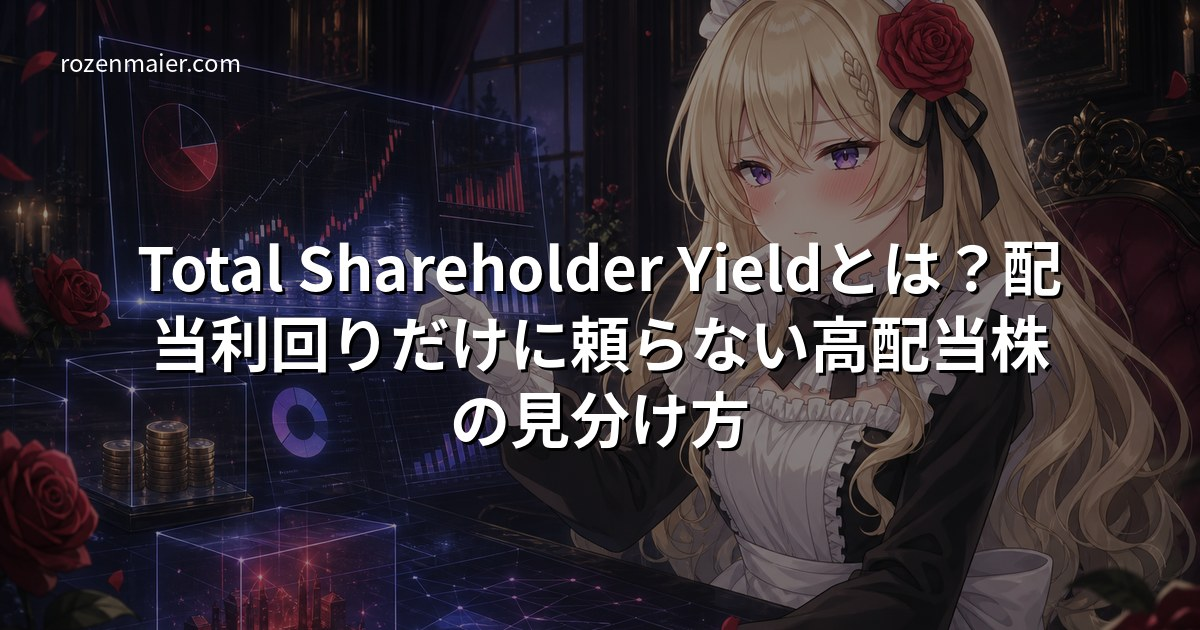
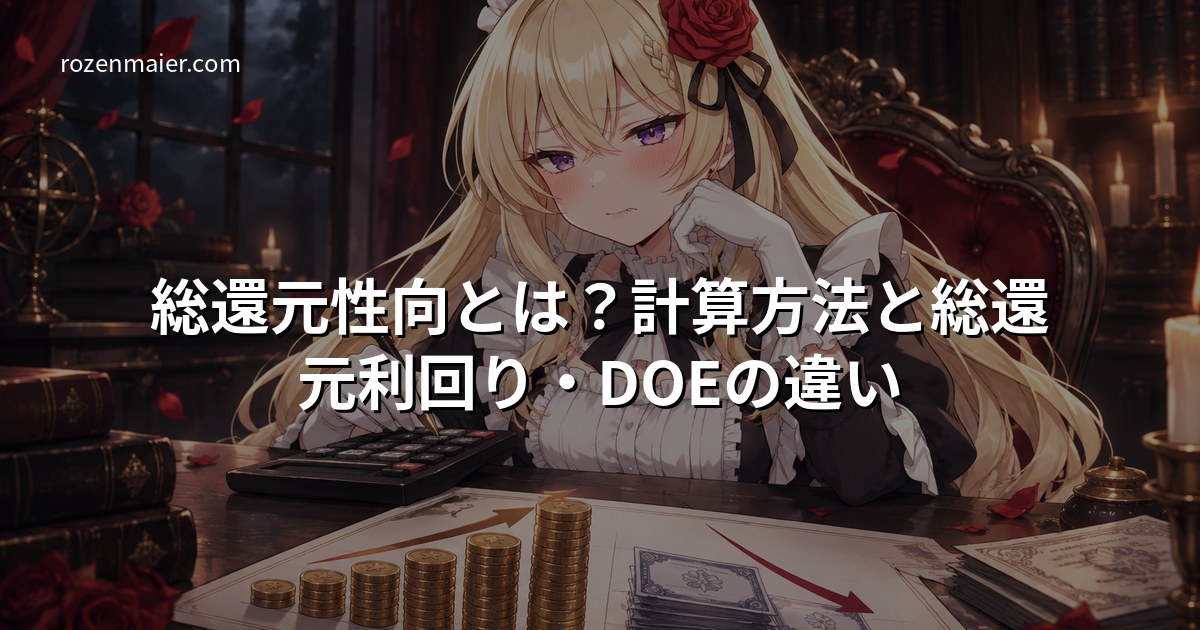
rewrite(seo): 総還元利回り記事を「総還元性向」主軸に再設計
SC90日 54表示・0クリック・平均19.8位（site:除く実クエリ≈10表示・5.7位）、Bing 0表示。
「総還元利回り」「Total Shareholder Yield」はサジェスト需要ほぼ無し、「総還元性向」は
サジェスト100件（DOEとの違い・企業名＋総還元性向）と需要差が大きく、検索意図とズレていた。
- タイトルを総還元性向＋計算方法＋総還元利回り・DOEの違いに変更、サムネ再生成
- 4指標の分子分母比較表、DOEとの違いを新設
- 三菱商事176%/KDDI99.6%/JT85%/Apple94.8%を決算短信・10-Kから計算（旧概算値を破棄）
- 10/29終値の総還元利回り、100%超の落とし穴、Appleの希薄化を株式数で検証
- SYLD経費率0.59%を公式で確認

diff --git a/content/posts/2026-08-15-total-shareholder-yield-dividend-stock-guide.md b/content/posts/2026-08-15-total-shareholder-yield-dividend-stock-guide.md
@@ -1,172 +1,223 @@
 ---
-title: "Total Shareholder Yieldとは？配当利回りだけに頼らない高配当株の見分け方"
+title: "総還元性向とは？計算方法と総還元利回り・DOEの違い"
 date: 2026-08-15
+lastmod: 2026-10-30
 draft: false
 tags: ["用語集", "米国株", "高配当・配当再投資"]
 categories: ["高配当株・配当再投資"]
-description: "Total Shareholder Yield（総株主還元利回り）の計算方法と活用法を解説。配当利回り・自社株買い・新株発行を総合評価し、本当に株主に報いる優良銘柄を見極めるための実践ガイドです。"
+description: "総還元性向＝（配当総額＋自社株買い）÷純利益。三菱商事は176%、KDDIは99.6%、JTは85%、Appleは94.8%（各社の決算短信・10-Kから計算）。配当性向・DOE・総還元利回り（Total Shareholder Yield）との違いと、100%超えの読み方を実例で解説しますわ。"
 featureimage: "https://rozenmaier.com/img/thumbnails/2026-08-15-total-shareholder-yield-dividend-stock-guide.jpg"
 featureimagecaption: "Photo by rozenmaier.com"
 ---
 
-高配当株を選ぶとき、多くの投資家は**配当利回り**だけを見てしまいます。しかし、企業が株主に還元する方法は配当だけではありません。**自社株買い**という強力な還元手段を見落としていませんか？
+「総還元性向」で調べる方が知りたいのは、だいたい次の3つですわね。**どう計算するのか。配当性向やDOEと何が違うのか。100%を超えている会社は大丈夫なのか。**
 
-Total Shareholder Yield（総株主還元利回り）は、配当・自社株買い・新株発行の3要素を統合した指標です。この記事では、TSYの計算方法から日米の代表銘柄、ETFでの活用法まで実践的に解説します。
+先に答えてしまいますわ。
 
-## Total Shareholder Yield（TSY）とは何か
+- **総還元性向 ＝（配当金の総額 ＋ 自社株買いの金額）÷ 当期純利益 × 100**
+- 配当性向は「配当だけ」、総還元性向は「配当＋自社株買い」。分母はどちらも**利益**
+- DOEは分母が**自己資本**、総還元利回り（Total Shareholder Yield）は分母が**時価総額**
+- 100%超えは「その年の利益より多く返した」という意味。**翌年も続くとは限らない**
 
-Total Shareholder Yield（以下TSY）は、企業が株主に対して行う**すべての還元**を利回りとして表した指標です。
+ここからは、三菱商事・KDDI・JT・Appleの決算資料の数字を実際に当てはめて、ひとつずつ確かめていきますの。数字はすべて各社の決算短信と米国の年次報告書（Form 10-K）から拾っていますわ。
 
-**計算式:**
+## 総還元性向とは｜計算式と「配当性向」との違い
+
+総還元性向は、会社が1年間に稼いだ利益のうち、**どれだけを株主に返したか**を表す比率ですわ。
 
 ```
-TSY = 配当利回り + 自社株買い利回り − 新株発行による希薄化率
+総還元性向（%）＝（配当金の総額 ＋ 自己株式の取得額）÷ 親会社株主に帰属する当期純利益 × 100
 ```
 
-それぞれの要素を見ていきましょう。
+配当性向との違いは、分子に**自社株買い**が入るかどうかだけですの。
 
-### 配当利回り
+```
+配当性向（%）＝ 配当金の総額 ÷ 当期純利益 × 100
+```
 
-もっとも馴染みのある指標で、「年間配当金 ÷ 株価」で計算します。高配当株投資の基本ですが、これだけでは企業の還元姿勢の全体像は見えません。
+日本企業は長いあいだ「配当性向30%」を目安にしてきましたけれど、近年は自社株買いを組み合わせて株主還元を厚くする会社が増えましたわ。配当性向だけを見ていると、**自社株買いで大きく返している会社を「還元が少ない会社」と誤読してしまう**。総還元性向が使われるようになったのは、このためですの。
 
-### 自社株買い利回り（Buyback Yield）
+### 自社株買いがなぜ「還元」になるのか
 
-企業が自社の株式を市場から買い戻すことで、発行済み株式数が減少し、1株あたりの利益（EPS）や配当が実質的に増加します。
+会社が市場から自分の株を買い戻して消却すると、発行済株式数が減りますわ。利益が同じなら**1株あたり利益（EPS）が上がり**、配当総額が同じなら**1株あたり配当も上げやすく**なりますの。株を持ち続けている株主から見れば、自分の持ち分が勝手に大きくなるのと同じこと。現金を直接もらわなくても、価値は株主側に移っていますわ。
 
-**計算式:** 自社株買い利回り = 年間自社株買い金額 ÷ 時価総額 × 100
-
-たとえば時価総額1兆円の企業が年間500億円の自社株買いを実施すれば、自社株買い利回りは5%になります。
-
-### 新株発行による希薄化（Dilution）
-
-ストックオプションの行使や増資によって株式数が増えると、既存株主の持ち分が薄まります。TSYではこれを**マイナス要素**として差し引きます。
-
-**計算式:** 希薄化率 = （新規発行株式数 ÷ 期首発行済株式数）× 100
-
-テック企業ではストックベース報酬（SBC）が大きく、見かけの自社株買いが希薄化で相殺されるケースが少なくありません。
+ただし、配当と違って**税金がかからない代わりに、受け取った実感もない**。ここが、自社株買いが見落とされやすい理由ですの。
 
 ![TSYの概念を解説するローゼ](/img/body/2026-08-15-total-shareholder-yield-dividend-stock-guide-1.jpg)
 
-## 具体例で学ぶTSYの計算
+## 配当性向・総還元性向・DOE・総還元利回りの違い
 
-### 米国株の例：Apple（AAPL）
+似た名前の指標が4つあって紛らわしいので、分子と分母で並べてしまいますわ。
 
-Appleは配当利回りこそ0.5%程度と低いものの、巨額の自社株買いを継続しています。
+| 指標 | 分子 | 分母 | 何がわかるか |
+|------|------|------|------------|
+| 配当性向 | 配当総額 | 当期純利益 | 利益のうち配当に回した割合 |
+| **総還元性向** | 配当総額＋自社株買い | 当期純利益 | 利益のうち株主に返した割合 |
+| DOE（株主資本配当率） | 配当総額 | 自己資本 | 利益の振れに左右されにくい配当水準 |
+| **総還元利回り**（Total Shareholder Yield） | 配当総額＋自社株買い（−株式発行） | 時価総額 | 今の株価で買った人が受け取る還元の割合 |
 
-| 項目 | 数値（概算） |
-|------|------------|
-| 配当利回り | 0.5% |
-| 自社株買い利回り | 約3.5% |
-| 希薄化率 | 約0.5% |
-| **TSY** | **約3.5%** |
+覚え方は簡単ですの。**「性向」は会社の目線、「利回り」は投資家の目線**ですわ。
 
-配当利回りだけで判断すれば「低配当株」ですが、TSYで見ると実質3.5%の株主還元を行っている優良企業だとわかります。
+- 総還元性向は「会社が稼いだ利益をどれだけ返したか」。経営方針として目標を掲げる会社が多い
+- 総還元利回りは「自分が今の株価で買ったら、何％分の還元を受ける計算になるか」。配当利回りの拡張版
 
-### 日本株の例：三菱商事（8058）
+### DOEとの違い
 
-日本の総合商社は近年、配当と自社株買いの両輪で株主還元を強化しています。
+DOE（Dividend on Equity）は分母が自己資本なので、**赤字の年でも計算でき、利益が急減しても数字が跳ねにくい**のが特徴ですわ。決算短信の「配当の状況」の表にある「親会社所有者帰属持分配当率」がこれに当たりますの。2026年3月期は三菱商事が4.5%、KDDIが6.2%でしたわ。
 
-| 項目 | 数値（概算） |
-|------|------------|
-| 配当利回り | 約3.0% |
-| 自社株買い利回り | 約2.0% |
-| 希薄化率 | ほぼ0% |
-| **TSY** | **約5.0%** |
+「DOE〇%以上」を配当方針に掲げる会社は、利益が落ちても配当を維持しやすい設計になっています。一方で、DOEは自社株買いを含みません。**配当の安定性を見るならDOE、還元の総量を見るなら総還元性向**、と使い分けますの。
 
-希薄化がほとんどなく、配当と自社株買いの合計で5%近い還元を実現しています。
+## 実例で計算｜三菱商事・KDDI・JT・Appleの総還元性向
 
-### 注意が必要な例：高配当だがTSYが低い銘柄
+では、実際の決算資料から計算してみますわ。配当総額は決算短信の「配当の状況」、自社株買いはキャッシュ・フロー計算書の「自己株式の取得による支出」を使っています。
 
-一方、配当利回りが6%と魅力的に見えても、頻繁に増資を行う企業では希薄化率が2〜3%に達し、実質的なTSYは3〜4%にとどまるケースもあります。REITや一部の金融機関でこのパターンが見られます。
+| 会社（決算期） | 配当総額 | 自社株買い | 当期純利益 | 配当性向 | **総還元性向** |
+|------|------|------|------|------|------|
+| 三菱商事（2026年3月期） | 4,085億円 | 1兆27億円 | 8,005億円 | 52.2% | **176.3%** |
+| KDDI（2026年3月期） | 3,046億円 | 4,000億円 | 7,071億円 | 43.6% | **99.6%** |
+| JT（2025年12月期） | 1株234円 | なし | （調整後）4,886億円 | 85.0% | **85.0%** |
+| Apple（2025年9月期） | 154億ドル | 907億ドル | 1,120億ドル | 13.8% | **94.8%** |
 
-## TSYを活用したETF「SYLD」と「SCHD」の比較
+※三菱商事の自社株買いはキャッシュ・フロー計算書の「自己株式の増減－純額」。JTの配当性向は会社公表の調整後利益ベース。Appleは10-Kのキャッシュ・フロー計算書の配当支払額と自社株買い額から計算。
 
-TSYの概念を活用した代表的なETFを紹介します。
+### 三菱商事：総還元性向176%、利益の1.8倍を返した
 
-### Cambria Shareholder Yield ETF（SYLD）
+三菱商事の2026年3月期は、純利益が9,507億円から8,005億円へ減ったにもかかわらず、**1兆円の自社株買い**（2025年4月4日〜2026年3月24日に3億1,840万株を取得）をやり切りましたわ。配当総額4,085億円と合わせると還元額は約1兆4,112億円。利益を大きく上回ったので、総還元性向は176%になりますの。
 
-[Cambria社](https://www.cambriafunds.com/)が運用するSYLDは、TSYに特化した数少ないETFです。
+配当性向だけ見ると52.2%で「普通の会社」に見えるのに、総還元性向では突出している。**配当性向だけで還元姿勢を判断してはいけない典型例**ですわ。配当そのものの推移と累進配当の中身は[三菱商事の配当分析](/posts/2026-08-29-mitsubishi-corp-8058-dividend-analysis/)で詳しく見ていますの。
 
-- **選定基準:** 配当利回り＋自社株買い利回り＋債務返済利回りの合計が高い銘柄を選定
-- **特徴:** バリュー寄り・中小型株も含む幅広いポートフォリオ
-- **経費率:** 0.59%
+### KDDI：配当4割＋自社株買いで、ほぼ利益の全額
 
-SYLDは配当だけでなく自社株買いと財務改善も評価するため、「見かけの高配当」に騙されにくい設計になっています。
+KDDIは「連結配当性向40%超」を方針にしていて、2026年3月期の配当性向は43.6%。そこに4,000億円の自社株買いが乗っていますわ。合計すると総還元性向は**99.6%**。稼いだ利益をほぼ丸ごと株主に返している計算ですの。100株でいくらもらえるかは[KDDIの配当記事](/posts/2026-10-03-kddi-9433-dividend-84yen-stock-price/)にまとめていますわ。
 
-### SCHDとの違い
+### JT：自社株買いゼロ、総還元性向＝配当性向
 
-[SCHD（シュワブ米国配当株式ETF）](/posts/2026-05-13-high-dividend-etf-schd-vym-hdv-comparison/)は配当の質と成長性を重視しますが、自社株買い利回りを直接的なスクリーニング基準にはしていません。
+JTは「配当性向75%を目安（±5%程度）」とし、自社株買いは「その年の財務状況などを踏まえて実施の是非を検討」という方針ですわ。公式サイトの取得実績は**2019年2〜3月の500億円が最後**。ですから総還元性向は配当性向と同じ85.0%になりますの。
 
-| 比較項目 | SYLD | SCHD |
-|---------|------|------|
-| 主な選定基準 | TSY（配当＋買戻＋債務返済） | 配当の質・成長性・財務健全性 |
-| 銘柄傾向 | バリュー・中小型含む | 大型・高品質配当株 |
-| 経費率 | 0.59% | 0.06% |
-| 向いている人 | 総合還元重視 | 配当成長重視 |
+配当利回りは高いけれど、還元のほぼすべてが配当。**配当で受け取りたい人には向いている一方、総還元で比べると突出してはいない**、というのがJTの立ち位置ですわね。配当272円の妥当性は[JTの株価と配当の検証](/posts/2026-09-19-jt-2914-stock-price-dividend-272yen/)で取り上げましたわ。
 
-どちらが優れているかではなく、**投資目的に応じた使い分け**が重要です。インカム重視ならSCHD、総合還元重視ならSYLDが向いています。
+### Apple：配当性向14%でも、総還元性向は95%
 
-## TSYを自分で計算する3つのステップ
+Appleの配当性向はわずか13.8%。配当だけ見れば「株主還元に消極的な会社」ですわ。ところが2025年9月期の自社株買いは907億ドルで、配当の約6倍。合わせると総還元性向は**94.8%**ですの。米国の大型テック株は、還元の主役が配当ではなく自社株買いだということがよくわかりますわね。
 
-個別銘柄のTSYを自分で調べる方法を紹介します。
+## 総還元利回り（Total Shareholder Yield）の計算方法
 
-### ステップ1：配当利回りを確認
+総還元性向は「会社がどれだけ返したか」でしたわ。では、**今の株価で買う投資家にとって何％なのか**。これを表すのが総還元利回り、英語でいうTotal Shareholder Yield（TSY）ですの。
 
-証券会社のスクリーナーや[Yahoo Finance](https://finance.yahoo.com/)で簡単に確認できます。
+```
+総還元利回り（%）＝（配当総額 ＋ 自社株買い額 − 新株発行額）÷ 時価総額 × 100
+            ≒ 配当利回り ＋ 自社株買い利回り − 希薄化率
+```
 
-### ステップ2：自社株買い利回りを算出
+さきほどの4社に、2026年10月29日の終値を当てはめてみますわ。還元額は直近の通期実績、時価総額は「終値 ×（発行済株式数 − 自己株式数）」で出しています。
 
-企業の決算書（キャッシュフロー計算書）から「自己株式の取得」金額を確認し、時価総額で割ります。日本企業なら有価証券報告書、米国企業なら10-K（Annual Report）の「Financing Activities」セクションに記載されています。
+| 会社 | 10/29終値 | 時価総額 | 配当利回り（実績） | 自社株買い利回り | **総還元利回り** |
+|------|------|------|------|------|------|
+| 三菱商事 | 4,908円 | 約18.0兆円 | 2.24% | 5.58% | **7.85%** |
+| KDDI | 2,778円 | 約10.6兆円 | 2.88% | 3.78% | **6.66%** |
+| JT | 7,401円 | — | 3.16% | 0% | **3.16%** |
+| Apple | 348.9ドル | 約5.16兆ドル | 0.30% | 1.76% | **2.06%** |
 
-### ステップ3：希薄化を差し引く
+配当利回りの順位はJT ＞ KDDI ＞ 三菱商事 ＞ Apple ですけれど、総還元利回りで並べ直すと**三菱商事 ＞ KDDI ＞ JT ＞ Apple**。順位がひっくり返りますの。
 
-期首と期末の発行済株式数を比較します。株式数が増加していれば希薄化が発生しています。特に米国テック企業ではSBC（株式報酬）による希薄化が年1〜3%に達することがあります。
+ただし、この表を「三菱商事がいちばんお得」と読むのは早計ですわ。理由は次の章で。
 
-**簡易チェック:** 発行済株式数が毎年減少している企業は、自社株買いが希薄化を上回っている＝ネットの株主還元がプラスです。Appleや[VIG構成銘柄](/posts/2026-07-17-vig-vs-dgro-dividend-growth-etf-guide-2026/)の多くがこのパターンに該当します。
-
-![自社株買いの落とし穴を検証するローゼ](/img/body/2026-08-15-total-shareholder-yield-dividend-stock-guide-2.jpg)
-
-## TSY活用の注意点と落とし穴
-
-TSYは万能ではありません。以下の点に注意しましょう。
+## 総還元性向100%超えは良いことか｜3つの落とし穴
 
 ### 1. 自社株買いは「約束」ではない
 
-配当は一度始めると減配のハードルが高いですが、自社株買いは業績悪化時に突然中止されることがあります。コロナショック時には多くの企業が自社株買いプログラムを一時停止しました。
+配当は一度上げると下げにくいものですけれど、自社株買いは**その年ごとに決める**ものですわ。
 
-上限額が開示されていても、実際の取得額は毎月の「自己株式の取得状況」で追うのが確実です。[INPEXの配当と1,400億円の自社株買いの進み具合](/posts/2026-09-05-inpex-1605-dividend-yield-total-payout/)では、その追い方を実例で確認しています。
+三菱商事の1兆円は2025年度の施策で、2026年5月の決算短信には2026年度分の新しい取得枠の記載はありませんでしたの。配当は125円への増配予想（10/29終値で利回り2.55%）が出ていますけれど、自社株買いが前年並みに無ければ、**来年の総還元利回りは7.85%から大きく下がる**可能性がありますわ。
 
-### 2. 借金して自社株買いするケース
+KDDIは2027年3月期も3,000億円（上限）の取得枠を決議していますわ。ただしそのうち最大2,500億円は、トヨタ自動車と京セラが売りたい株を引き取る**公開買付け**ですの。市場から継続的に買い上げる自社株買いとは性格が少し違う、という点は押さえておきたいところですわね。それでも3,000億円で計算した利回りは2.84%、配当予想84円の3.02%と合わせて約5.9%ですの。
 
-低金利時代には負債を増やして自社株買いを行う企業もありました。TSYの数値は高くなりますが、財務体質は悪化します。**負債比率（D/Eレシオ）**も併せて確認しましょう。
+上限額が開示されていても、実際の取得額は毎月開示される「自己株式の取得状況に関するお知らせ」で追うのが確実ですわ。
 
-### 3. 株価が割高な時の自社株買いは非効率
+### 2. 借入を増やしながらの還元
 
-PERやPBRが極端に高い水準で自社株買いを行っても、株主にとってのリターンは限定的です。「自社株買い利回りが高い＝良い」とは限らない点に注意が必要です。
+総還元性向が100%を超えるということは、その年の利益だけでは足りず、**手元資金か借入でまかなった**ということですわ。
 
-### 4. 配当利回りトラップとの併用
+三菱商事の2026年3月期のキャッシュ・フロー計算書では、長期借入による調達が1兆3,868億円、返済が4,902億円でしたの。借入の増加がそのまま自社株買いに充てられたとは言い切れませんけれど、還元を厚くした年に借入も増えていた、という事実は財務面から確認しておくべきですわ。**総還元性向を見るときは、有利子負債とD/Eレシオも並べて見る**のが鉄則ですの。
 
-TSYが高くても、[配当利回りトラップ](/posts/2026-08-01-dividend-yield-trap-payout-ratio-fcf-screening-guide/)（株価下落による見かけ上の高利回り）に該当する銘柄は避けるべきです。FCF（フリーキャッシュフロー）に対する配当＋自社株買いの比率が100%を超えていないかチェックしましょう。
+### 3. 株価が高いときの自社株買いは効率が悪い
 
-## まとめ：配当利回りの「その先」を見よう
+同じ1兆円でも、株価が安いときに買えば多くの株を消却でき、高いときに買えば少ししか減らせませんわ。三菱商事の1兆円の平均取得単価は約3,141円で、10月29日の終値4,908円より大幅に安く買えていますの。結果的にはうまい買い物だったわけですけれど、**PERやPBRが極端に高い水準での自社株買いは、総還元性向の数字ほど株主の得にならない**ことは覚えておいてくださいまし。
 
-Total Shareholder Yieldは、配当利回りだけでは見えない企業の株主還元姿勢を可視化する強力な指標です。
+![自社株買いの落とし穴を検証するローゼ](/img/body/2026-08-15-total-shareholder-yield-dividend-stock-guide-2.jpg)
 
-**TSY活用のポイント:**
+## 希薄化を差し引く｜株式数の増減で確かめる
 
-- 配当利回りに自社株買い利回りを加え、希薄化を引く
-- 日本の商社・銀行株は近年TSYが高い傾向
-- 米国テック株は配当が低くてもTSYで見ると高還元な銘柄が多い
-- ETFならSYLDがTSY特化、[SCHDは配当品質重視](/posts/2026-05-13-high-dividend-etf-schd-vym-hdv-comparison/)
-- 自社株買いの持続性・財務健全性も必ず確認する
+総還元利回りでもうひとつ大事なのが、**新株発行による希薄化**ですわ。米国のテック企業は社員への株式報酬（SBC）が大きく、自社株買いで減らした株の一部を、株式報酬で増やしてしまっていますの。
 
-配当利回りだけでなくTSYも活用することで、**本当に株主に報いる優良銘柄**を見極める精度が格段に上がります。ぜひ次のスクリーニングから取り入れてみてください。
+Appleの10-Kから株式数の動きを拾うと、2025年9月期はこうでしたわ。
 
----
+| 項目 | 株式数 |
+|------|------|
+| 期首の発行済株式数 | 151億1,679万株 |
+| 自社株買いで減った株 | −4億167万株 |
+| 株式報酬などで増えた株 | ＋5,815万株 |
+| 期末の発行済株式数 | 147億7,326万株 |
 
-**関連記事:**
-- [SCHD完全ガイド](/posts/2026-05-13-high-dividend-etf-schd-vym-hdv-comparison/)
-- [VIG vs DGRO 配当成長ETF比較](/posts/2026-07-17-vig-vs-dgro-dividend-growth-etf-guide-2026/)
-- [配当利回りトラップの見分け方](/posts/2026-08-01-dividend-yield-trap-payout-ratio-fcf-screening-guide/)
-- [高配当ETF SCHD・VYM・HDV比較](/posts/2026-05-13-high-dividend-etf-schd-vym-hdv-comparison/)
-- [配当成長 vs 高利回り どちらが有利？](/posts/2026-06-27-dividend-growth-vs-high-yield-stocks-comparison/)
+自社株買いで2.66%減らした一方、株式報酬で0.38%増えているので、**差し引きの株式数の減少は2.27%**ですわ。
+
+ここから、総還元利回りの計算方法には2通りあることがわかりますの。
+
+- **金額ベース**：（配当支払額＋自社株買い額）÷ 時価総額 … Appleは2.06%
+- **株式数ベース**：配当利回り＋株式数の純減少率 … Appleは0.30%＋2.27%＝2.57%
+
+株式数ベースの方が高く出るのは、Appleの株を買った時期の株価が今より安かったからですわ。どちらの方法を使うにしても、**同じ方法で銘柄どうしを比べる**ことが大切ですの。
+
+**簡易チェック:** 発行済株式数が毎年減っている会社は、自社株買いが希薄化を上回っている＝差し引きで株主還元がプラスですわ。逆に、自社株買いをしているのに株式数が減っていない会社は、買った分を株式報酬で配り直しているだけかもしれませんの。
+
+## ETFで総還元利回りを取りに行く｜SYLDとSCHD
+
+個別に計算するのが面倒なら、総還元利回りで銘柄を選ぶETFもありますわ。
+
+### Cambria Shareholder Yield ETF（SYLD）
+
+[Cambria社](https://www.cambriafunds.com/syld)が運用するSYLDは、配当・自社株買い・**債務の返済**の3つを合わせた「シェアホルダー・イールド」が高い約100銘柄に、ほぼ均等に投資するアクティブETFですわ。総経費率は0.59%（同社サイト）。運用者は、このテーマの本を書いたメブ・フェイバー氏ですの。
+
+債務返済まで還元に数えるので、「借金して自社株買い」をしている会社はスコアが上がりにくい設計になっていますわ。さきほどの落とし穴2への答えを、指数の側で持っているわけですの。
+
+### SCHDとの違い
+
+[SCHD（シュワブ米国配当株式ETF）](/posts/2026-05-13-high-dividend-etf-schd-vym-hdv-comparison/)は配当の継続年数・利回り・財務の質で選ぶETFで、自社株買いは選定基準に入っていませんわ。
+
+| 比較項目 | SYLD | SCHD |
+|---------|------|------|
+| 主な選定基準 | 配当＋自社株買い＋債務返済 | 配当の継続性・利回り・財務の質 |
+| 銘柄数・ウェイト | 約100銘柄・均等 | 時価総額加重 |
+| 経費率 | 0.59% | 0.06% |
+| 向いている人 | 還元の総量で選びたい | 配当で受け取りたい |
+
+経費率は10倍近く違いますわ。総還元という考え方に価値を感じるかどうかで選ぶのがよろしいですの。なお、SYLDのような小型の米国ETFは国内の証券会社で取り扱いが無いこともあるので、購入前に各社の取扱銘柄一覧で確かめてくださいまし。
+
+## 総還元性向を自分で調べる3ステップ
+
+### ステップ1：決算短信の1ページ目「配当の状況」を見る
+
+日本企業なら、決算短信の1ページ目に「配当金総額」「配当性向」「親会社所有者帰属持分配当率（＝DOE）」が並んでいますわ。配当性向とDOEはここで終わりですの。
+
+### ステップ2：キャッシュ・フロー計算書で自社株買いの金額を拾う
+
+同じ決算短信の後半、「財務活動によるキャッシュ・フロー」の中に**「自己株式の取得による支出」**があります（三菱商事のように「自己株式の増減－純額」と書く会社もありますわ）。米国企業なら10-Kの「Repurchases of common stock」ですの。
+
+（配当金総額＋この金額）÷ 当期純利益 で、総還元性向が出ますわ。
+
+### ステップ3：発行済株式数の増減で希薄化を確かめる
+
+決算短信の「期末発行済株式数」「期末自己株式数」を前期と比べますの。外部に出回っている株（発行済株式数−自己株式数）が減っていれば、自社株買いが実際に効いていますわ。総還元利回りまで出したいなら、最後に時価総額（株価×外部に出回っている株数）で割ってくださいまし。
+
+配当そのものが危なくないかは、[配当利回りトラップの見分け方](/posts/2026-08-01-dividend-yield-trap-payout-ratio-fcf-screening-guide/)のFCFチェックも合わせて使うと精度が上がりますわ。**配当＋自社株買いがフリーキャッシュフローを毎年超えている会社**は、いずれどちらかを削ることになりますの。
+
+## まとめ：配当性向の「その先」を見る
+
+- **総還元性向＝（配当総額＋自社株買い）÷ 当期純利益**。配当性向に自社株買いを足したもの
+- DOEは分母が自己資本で配当の安定性を見る指標、総還元利回り（TSY）は分母が時価総額で投資家目線の指標
+- 2026年3月期は三菱商事176%・KDDI 99.6%、JTは自社株買いなしで85%、Appleは配当性向14%でも総還元性向95%
+- 配当利回りでは JT ＞ KDDI ＞ 三菱商事 ＞ Apple でも、総還元利回りでは三菱商事 ＞ KDDI ＞ JT ＞ Apple に入れ替わる
+- 100%超えは「翌年も続く」ことを意味しない。自社株買いの枠が翌年も出ているか、借入が増えていないかを必ず確認する
+
+配当利回りだけで高配当株を選ぶと、自社株買いで大きく返している会社を見落としますわ。かといって、一度きりの大型自社株買いで跳ね上がった総還元利回りを、来年も続く数字だと思い込むのも危険ですの。**「配当は続く還元、自社株買いはその年の還元」**と分けて考えるのが、いちばん失敗しにくい読み方ですわね。🌹
+
